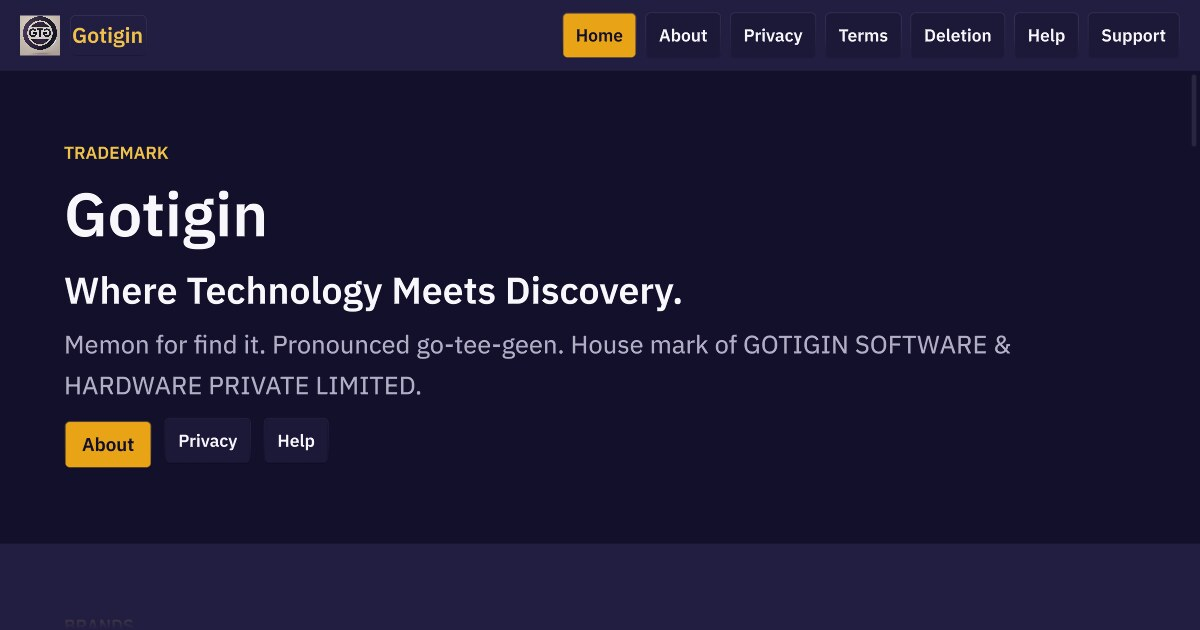
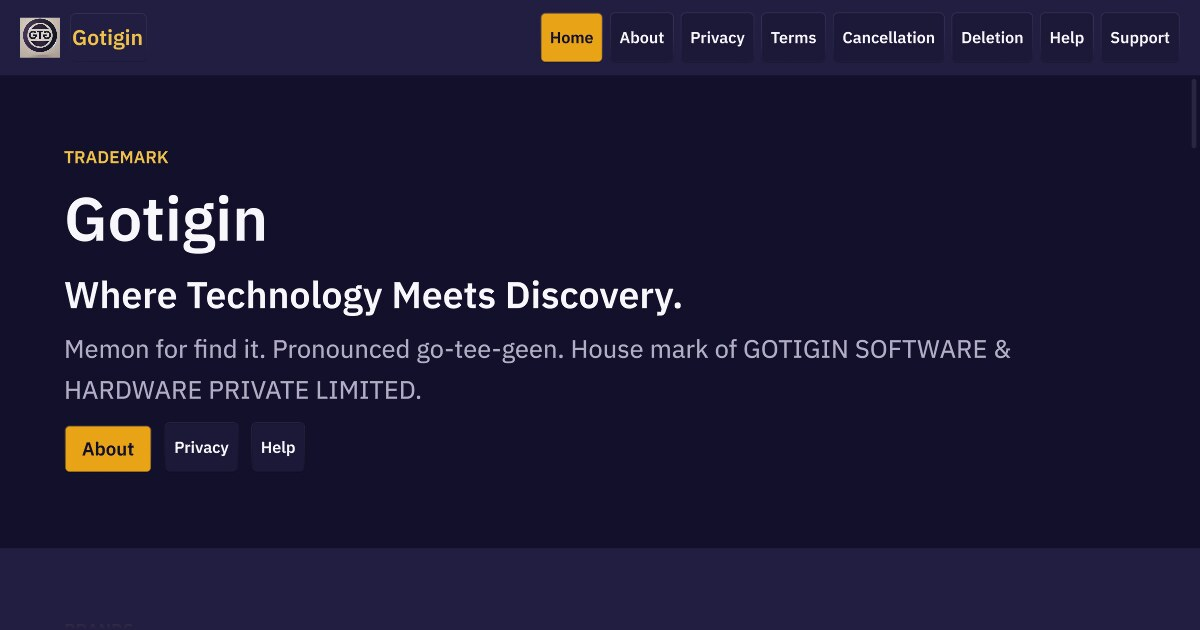
Refresh gotigin.com link-preview.jpg after the nav and footer changes.
Re-present legal shells so og:image carries the new preview hash.

diff --git a/sites/gotigin-website/static/data-deletion/index.html b/sites/gotigin-website/static/data-deletion/index.html
@@ -14,7 +14,7 @@
   <meta property="og:url" content="https://gotigin.com/data-deletion" />
   <meta property="og:type" content="website" />
   <meta property="og:locale" content="en_IN" />
-  <meta property="og:image" content="https://gotigin.com/media/link-preview.jpg?v=3dfd36f830" />
+  <meta property="og:image" content="https://gotigin.com/media/link-preview.jpg?v=64a537ab27" />
   <meta property="og:image:type" content="image/jpeg" />
   <meta property="og:image:width" content="1200" />
   <meta property="og:image:height" content="630" />
@@ -22,7 +22,7 @@
   <meta name="twitter:card" content="summary_large_image" />
   <meta name="twitter:title" content="Data deletion — Gotigin" />
   <meta name="twitter:description" content="How to ask Gotigin to delete your personal data, for the company and for each product." />
-  <meta name="twitter:image" content="https://gotigin.com/media/link-preview.jpg?v=3dfd36f830" />
+  <meta name="twitter:image" content="https://gotigin.com/media/link-preview.jpg?v=64a537ab27" />
   <meta name="twitter:image:alt" content="The gotigin.com home page: Gotigin — Where Technology Meets Discovery." />
   <link rel="icon" href="/favicon.png" type="image/png" />
   <link rel="apple-touch-icon" href="/media/gotigin-brand-logo.png" />

diff --git a/sites/gotigin-website/static/cancellation/index.html b/sites/gotigin-website/static/cancellation/index.html
@@ -14,7 +14,7 @@
   <meta property="og:url" content="https://gotigin.com/cancellation" />
   <meta property="og:type" content="website" />
   <meta property="og:locale" content="en_IN" />
-  <meta property="og:image" content="https://gotigin.com/media/link-preview.jpg?v=3dfd36f830" />
+  <meta property="og:image" content="https://gotigin.com/media/link-preview.jpg?v=64a537ab27" />
   <meta property="og:image:type" content="image/jpeg" />
   <meta property="og:image:width" content="1200" />
   <meta property="og:image:height" content="630" />
@@ -22,7 +22,7 @@
   <meta name="twitter:card" content="summary_large_image" />
   <meta name="twitter:title" content="Cancellation &amp; refund — Gotigin" />
   <meta name="twitter:description" content="Cancellation and refund policy for Gotigin company and brand purchases." />
-  <meta name="twitter:image" content="https://gotigin.com/media/link-preview.jpg?v=3dfd36f830" />
+  <meta name="twitter:image" content="https://gotigin.com/media/link-preview.jpg?v=64a537ab27" />
   <meta name="twitter:image:alt" content="The gotigin.com home page: Gotigin — Where Technology Meets Discovery." />
   <link rel="icon" href="/favicon.png" type="image/png" />
   <link rel="apple-touch-icon" href="/media/gotigin-brand-logo.png" />

diff --git a/sites/gotigin-website/static/privacy/index.html b/sites/gotigin-website/static/privacy/index.html
@@ -14,7 +14,7 @@
   <meta property="og:url" content="https://gotigin.com/privacy" />
   <meta property="og:type" content="website" />
   <meta property="og:locale" content="en_IN" />
-  <meta property="og:image" content="https://gotigin.com/media/link-preview.jpg?v=3dfd36f830" />
+  <meta property="og:image" content="https://gotigin.com/media/link-preview.jpg?v=64a537ab27" />
   <meta property="og:image:type" content="image/jpeg" />
   <meta property="og:image:width" content="1200" />
   <meta property="og:image:height" content="630" />
@@ -22,7 +22,7 @@
   <meta name="twitter:card" content="summary_large_image" />
   <meta name="twitter:title" content="Privacy — Gotigin" />
   <meta name="twitter:description" content="Privacy policy for GOTIGIN SOFTWARE &amp; HARDWARE PRIVATE LIMITED and gotigin.com." />
-  <meta name="twitter:image" content="https://gotigin.com/media/link-preview.jpg?v=3dfd36f830" />
+  <meta name="twitter:image" content="https://gotigin.com/media/link-preview.jpg?v=64a537ab27" />
   <meta name="twitter:image:alt" content="The gotigin.com home page: Gotigin — Where Technology Meets Discovery." />
   <link rel="icon" href="/favicon.png" type="image/png" />
   <link rel="apple-touch-icon" href="/media/gotigin-brand-logo.png" />

diff --git a/sites/gotigin-website/static/about/index.html b/sites/gotigin-website/static/about/index.html
@@ -14,7 +14,7 @@
   <meta property="og:url" content="https://gotigin.com/about" />
   <meta property="og:type" content="website" />
   <meta property="og:locale" content="en_IN" />
-  <meta property="og:image" content="https://gotigin.com/media/link-preview.jpg?v=3dfd36f830" />
+  <meta property="og:image" content="https://gotigin.com/media/link-preview.jpg?v=64a537ab27" />
   <meta property="og:image:type" content="image/jpeg" />
   <meta property="og:image:width" content="1200" />
   <meta property="og:image:height" content="630" />
@@ -22,7 +22,7 @@
   <meta name="twitter:card" content="summary_large_image" />
   <meta name="twitter:title" content="About — Gotigin" />
   <meta name="twitter:description" content="About Gotigin and GOTIGIN SOFTWARE &amp; HARDWARE PRIVATE LIMITED." />
-  <meta name="twitter:image" content="https://gotigin.com/media/link-preview.jpg?v=3dfd36f830" />
+  <meta name="twitter:image" content="https://gotigin.com/media/link-preview.jpg?v=64a537ab27" />
   <meta name="twitter:image:alt" content="The gotigin.com home page: Gotigin — Where Technology Meets Discovery." />
   <link rel="icon" href="/favicon.png" type="image/png" />
   <link rel="apple-touch-icon" href="/media/gotigin-brand-logo.png" />

diff --git a/sites/gotigin-website/static/security/index.html b/sites/gotigin-website/static/security/index.html
@@ -14,7 +14,7 @@
   <meta property="og:url" content="https://gotigin.com/security" />
   <meta property="og:type" content="website" />
   <meta property="og:locale" content="en_IN" />
-  <meta property="og:image" content="https://gotigin.com/media/link-preview.jpg?v=3dfd36f830" />
+  <meta property="og:image" content="https://gotigin.com/media/link-preview.jpg?v=64a537ab27" />
   <meta property="og:image:type" content="image/jpeg" />
   <meta property="og:image:width" content="1200" />
   <meta property="og:image:height" content="630" />
@@ -22,7 +22,7 @@
   <meta name="twitter:card" content="summary_large_image" />
   <meta name="twitter:title" content="Security — Gotigin" />
   <meta name="twitter:description" content="Security practices and vulnerability reporting for Gotigin." />
-  <meta name="twitter:image" content="https://gotigin.com/media/link-preview.jpg?v=3dfd36f830" />
+  <meta name="twitter:image" content="https://gotigin.com/media/link-preview.jpg?v=64a537ab27" />
   <meta name="twitter:image:alt" content="The gotigin.com home page: Gotigin — Where Technology Meets Discovery." />
   <link rel="icon" href="/favicon.png" type="image/png" />
   <link rel="apple-touch-icon" href="/media/gotigin-brand-logo.png" />

diff --git a/sites/gotigin-website/static/terms/index.html b/sites/gotigin-website/static/terms/index.html
@@ -14,7 +14,7 @@
   <meta property="og:url" content="https://gotigin.com/terms" />
   <meta property="og:type" content="website" />
   <meta property="og:locale" content="en_IN" />
-  <meta property="og:image" content="https://gotigin.com/media/link-preview.jpg?v=3dfd36f830" />
+  <meta property="og:image" content="https://gotigin.com/media/link-preview.jpg?v=64a537ab27" />
   <meta property="og:image:type" content="image/jpeg" />
   <meta property="og:image:width" content="1200" />
   <meta property="og:image:height" content="630" />
@@ -22,7 +22,7 @@
   <meta name="twitter:card" content="summary_large_image" />
   <meta name="twitter:title" content="Terms — Gotigin" />
   <meta name="twitter:description" content="Terms of use for gotigin.com and company-level Gotigin services." />
-  <meta name="twitter:image" content="https://gotigin.com/media/link-preview.jpg?v=3dfd36f830" />
+  <meta name="twitter:image" content="https://gotigin.com/media/link-preview.jpg?v=64a537ab27" />
   <meta name="twitter:image:alt" content="The gotigin.com home page: Gotigin — Where Technology Meets Discovery." />
   <link rel="icon" href="/favicon.png" type="image/png" />
   <link rel="apple-touch-icon" href="/media/gotigin-brand-logo.png" />

diff --git a/sites/gotigin-website/static/help/index.html b/sites/gotigin-website/static/help/index.html
@@ -14,7 +14,7 @@
   <meta property="og:url" content="https://gotigin.com/help" />
   <meta property="og:type" content="website" />
   <meta property="og:locale" content="en_IN" />
-  <meta property="og:image" content="https://gotigin.com/media/link-preview.jpg?v=3dfd36f830" />
+  <meta property="og:image" content="https://gotigin.com/media/link-preview.jpg?v=64a537ab27" />
   <meta property="og:image:type" content="image/jpeg" />
   <meta property="og:image:width" content="1200" />
   <meta property="og:image:height" content="630" />
@@ -22,7 +22,7 @@
   <meta name="twitter:card" content="summary_large_image" />
   <meta name="twitter:title" content="Help — Gotigin" />
   <meta name="twitter:description" content="Help for Gotigin — names, brands, products, and company pages." />
-  <meta name="twitter:image" content="https://gotigin.com/media/link-preview.jpg?v=3dfd36f830" />
+  <meta name="twitter:image" content="https://gotigin.com/media/link-preview.jpg?v=64a537ab27" />
   <meta name="twitter:image:alt" content="The gotigin.com home page: Gotigin — Where Technology Meets Discovery." />
   <link rel="icon" href="/favicon.png" type="image/png" />
   <link rel="apple-touch-icon" href="/media/gotigin-brand-logo.png" />

diff --git a/sites/gotigin-website/static/support/index.html b/sites/gotigin-website/static/support/index.html
@@ -14,7 +14,7 @@
   <meta property="og:url" content="https://gotigin.com/support" />
   <meta property="og:type" content="website" />
   <meta property="og:locale" content="en_IN" />
-  <meta property="og:image" content="https://gotigin.com/media/link-preview.jpg?v=3dfd36f830" />
+  <meta property="og:image" content="https://gotigin.com/media/link-preview.jpg?v=64a537ab27" />
   <meta property="og:image:type" content="image/jpeg" />
   <meta property="og:image:width" content="1200" />
   <meta property="og:image:height" content="630" />
@@ -22,7 +22,7 @@
   <meta name="twitter:card" content="summary_large_image" />
   <meta name="twitter:title" content="Support — Gotigin" />
   <meta name="twitter:description" content="Support contact for Gotigin company and brand routing." />
-  <meta name="twitter:image" content="https://gotigin.com/media/link-preview.jpg?v=3dfd36f830" />
+  <meta name="twitter:image" content="https://gotigin.com/media/link-preview.jpg?v=64a537ab27" />
   <meta name="twitter:image:alt" content="The gotigin.com home page: Gotigin — Where Technology Meets Discovery." />
   <link rel="icon" href="/favicon.png" type="image/png" />
   <link rel="apple-touch-icon" href="/media/gotigin-brand-logo.png" />

diff --git a/sites/gotigin-website/static/cookies/index.html b/sites/gotigin-website/static/cookies/index.html
@@ -14,7 +14,7 @@
   <meta property="og:url" content="https://gotigin.com/cookies" />
   <meta property="og:type" content="website" />
   <meta property="og:locale" content="en_IN" />
-  <meta property="og:image" content="https://gotigin.com/media/link-preview.jpg?v=3dfd36f830" />
+  <meta property="og:image" content="https://gotigin.com/media/link-preview.jpg?v=64a537ab27" />
   <meta property="og:image:type" content="image/jpeg" />
   <meta property="og:image:width" content="1200" />
   <meta property="og:image:height" content="630" />
@@ -22,7 +22,7 @@
   <meta name="twitter:card" content="summary_large_image" />
   <meta name="twitter:title" content="Cookies — Gotigin" />
   <meta name="twitter:description" content="Cookie policy for gotigin.com." />
-  <meta name="twitter:image" content="https://gotigin.com/media/link-preview.jpg?v=3dfd36f830" />
+  <meta name="twitter:image" content="https://gotigin.com/media/link-preview.jpg?v=64a537ab27" />
   <meta name="twitter:image:alt" content="The gotigin.com home page: Gotigin — Where Technology Meets Discovery." />
   <link rel="icon" href="/favicon.png" type="image/png" />
   <link rel="apple-touch-icon" href="/media/gotigin-brand-logo.png" />
